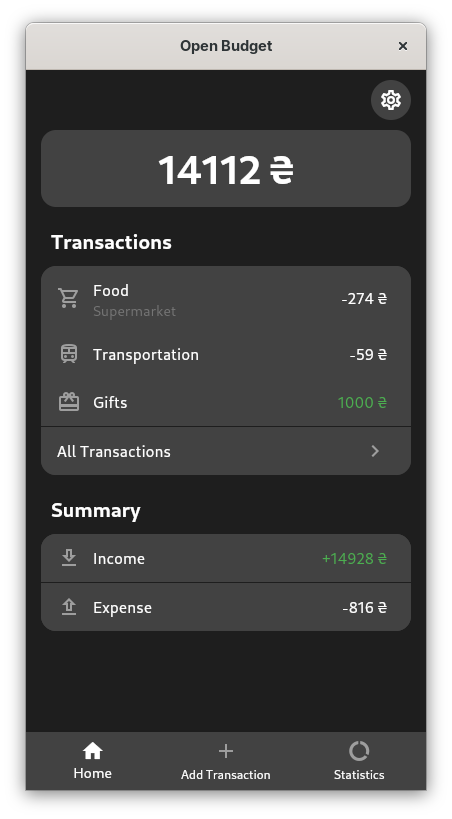
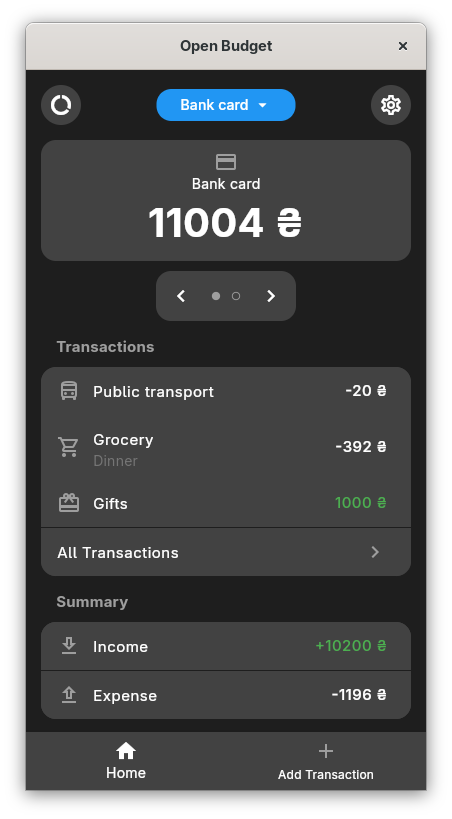
Update README with info about accounts

diff --git a/README.md b/README.md
@@ -9,6 +9,12 @@ Open Budget is open-source, cross-platform budgeting application
 
 # Features
 
+### Accounts
+- Manage multiple accounts 
+- Set currency and icon for each account
+- Set initial balance
+- Track separate statistics per account
+
 ### Transaction management
 - Add income and expense transactions
 - Organize transactions with categories
